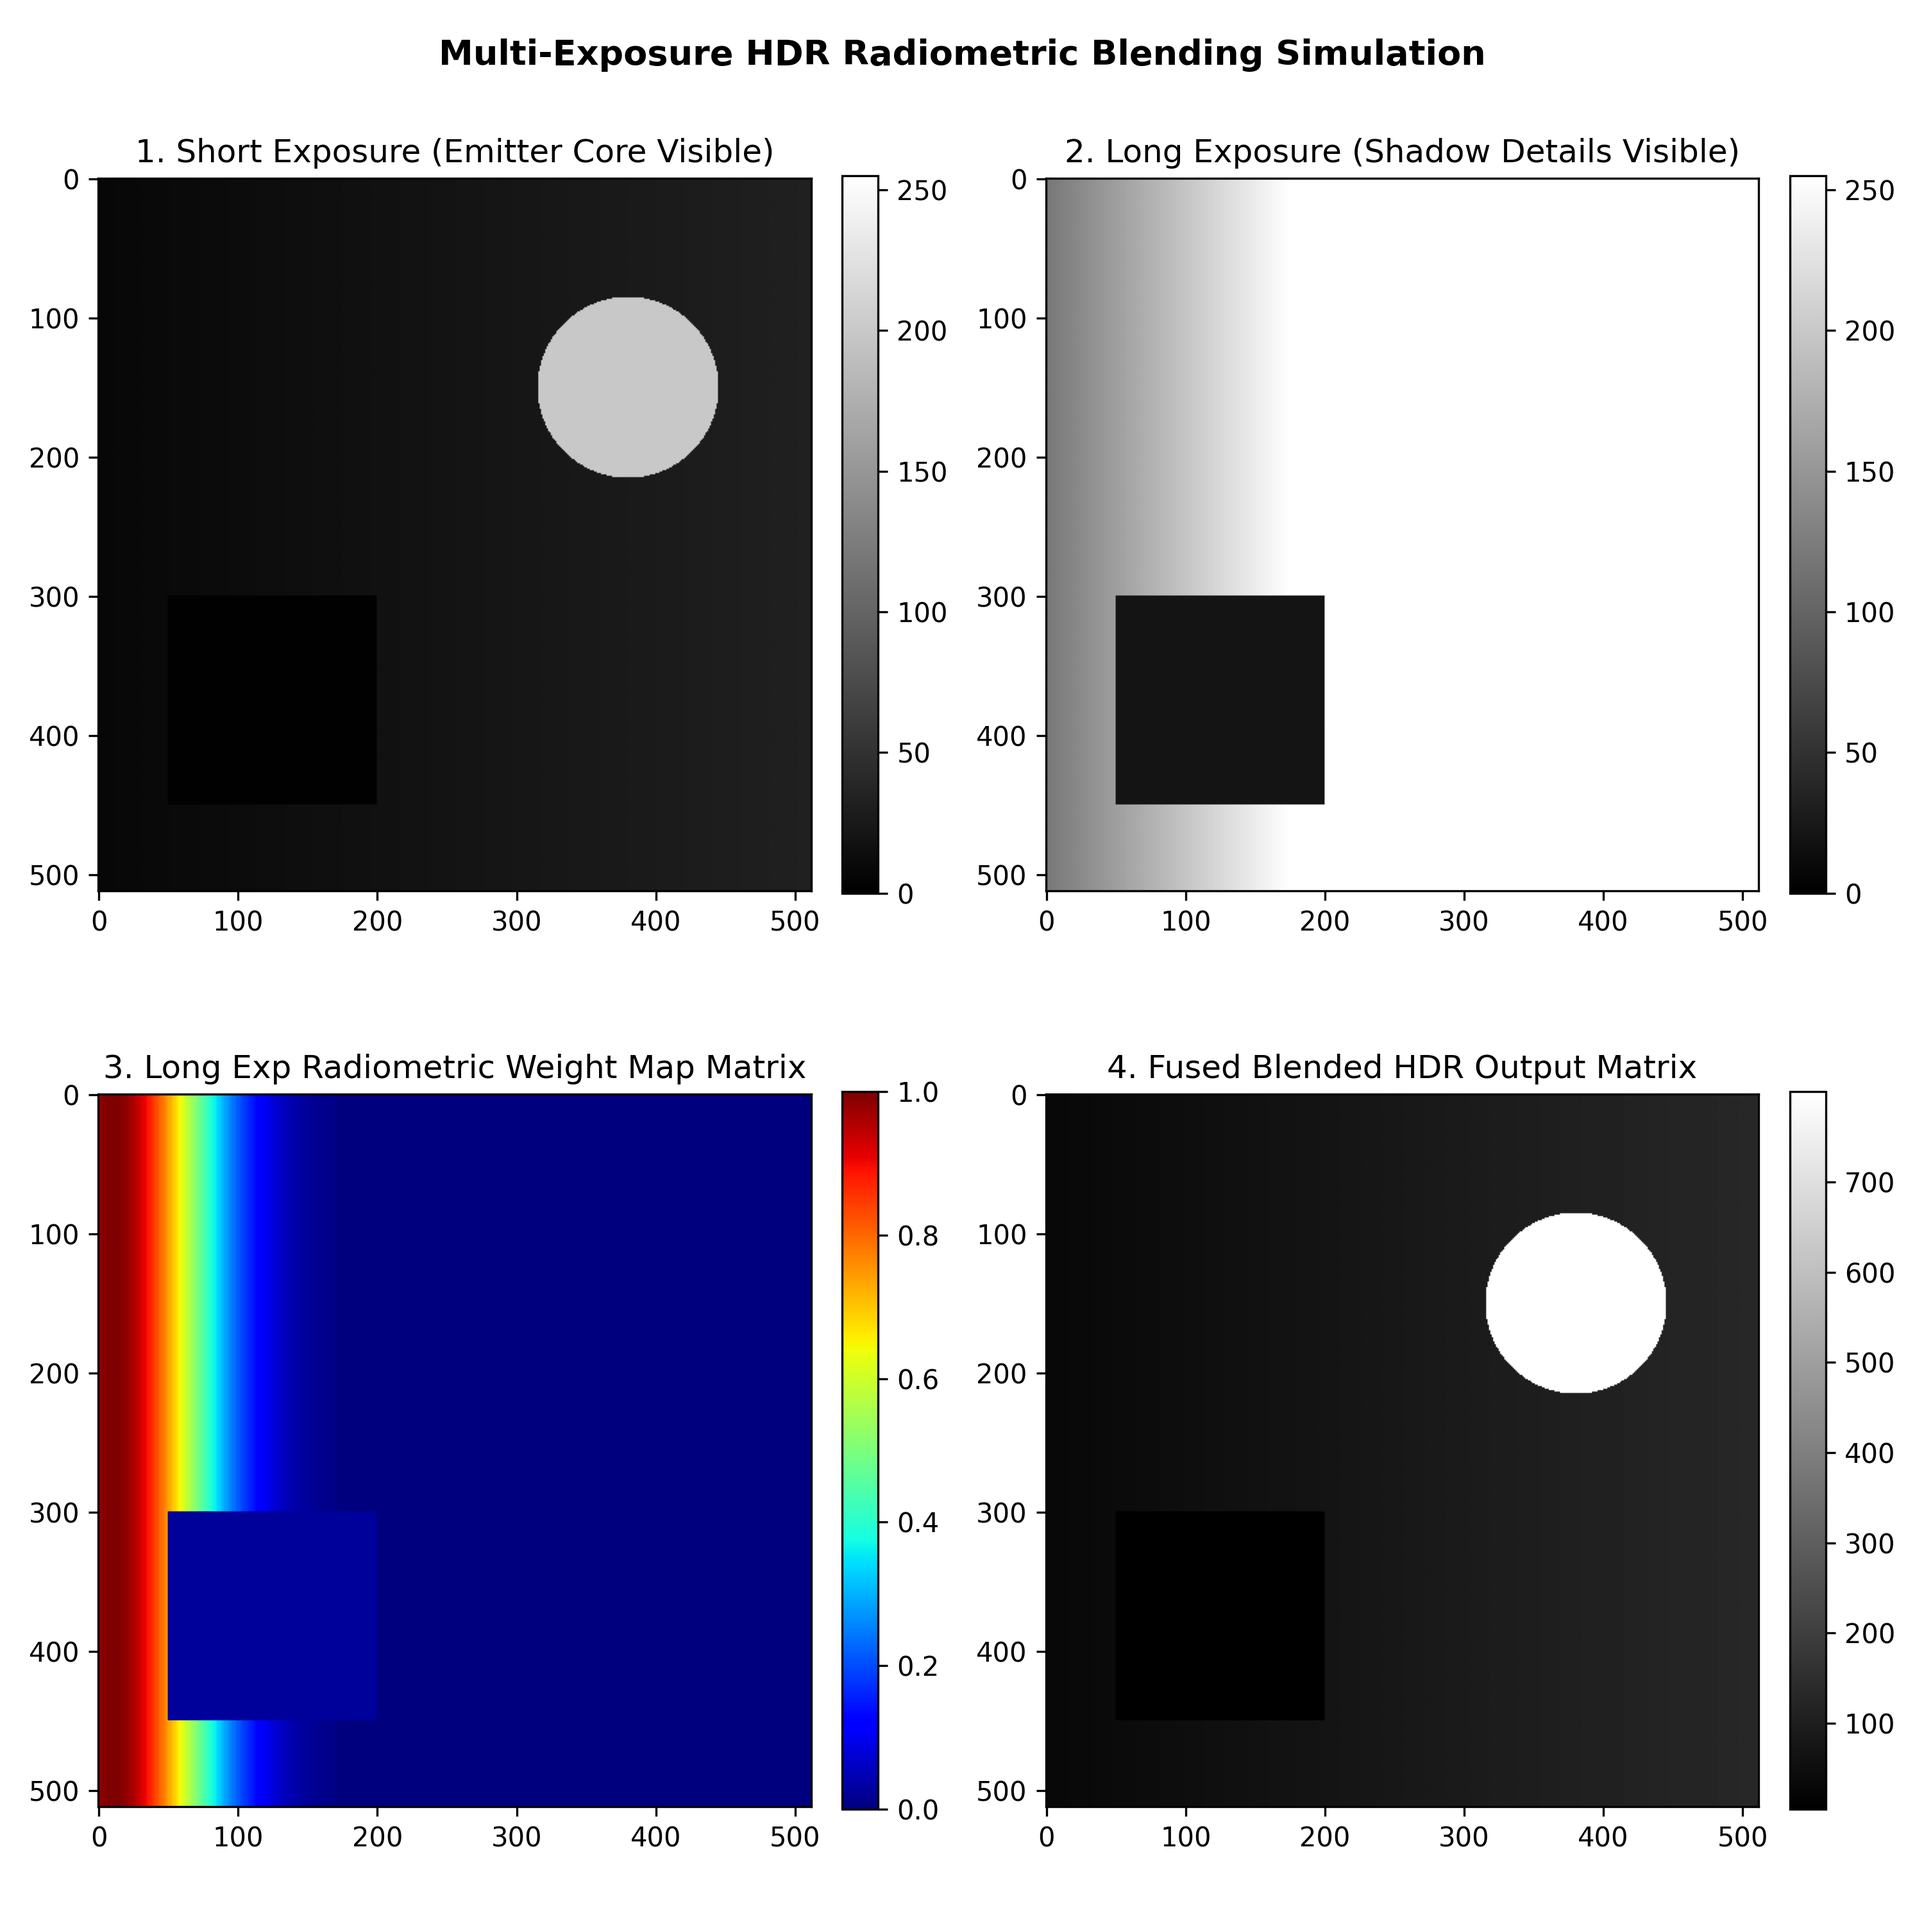
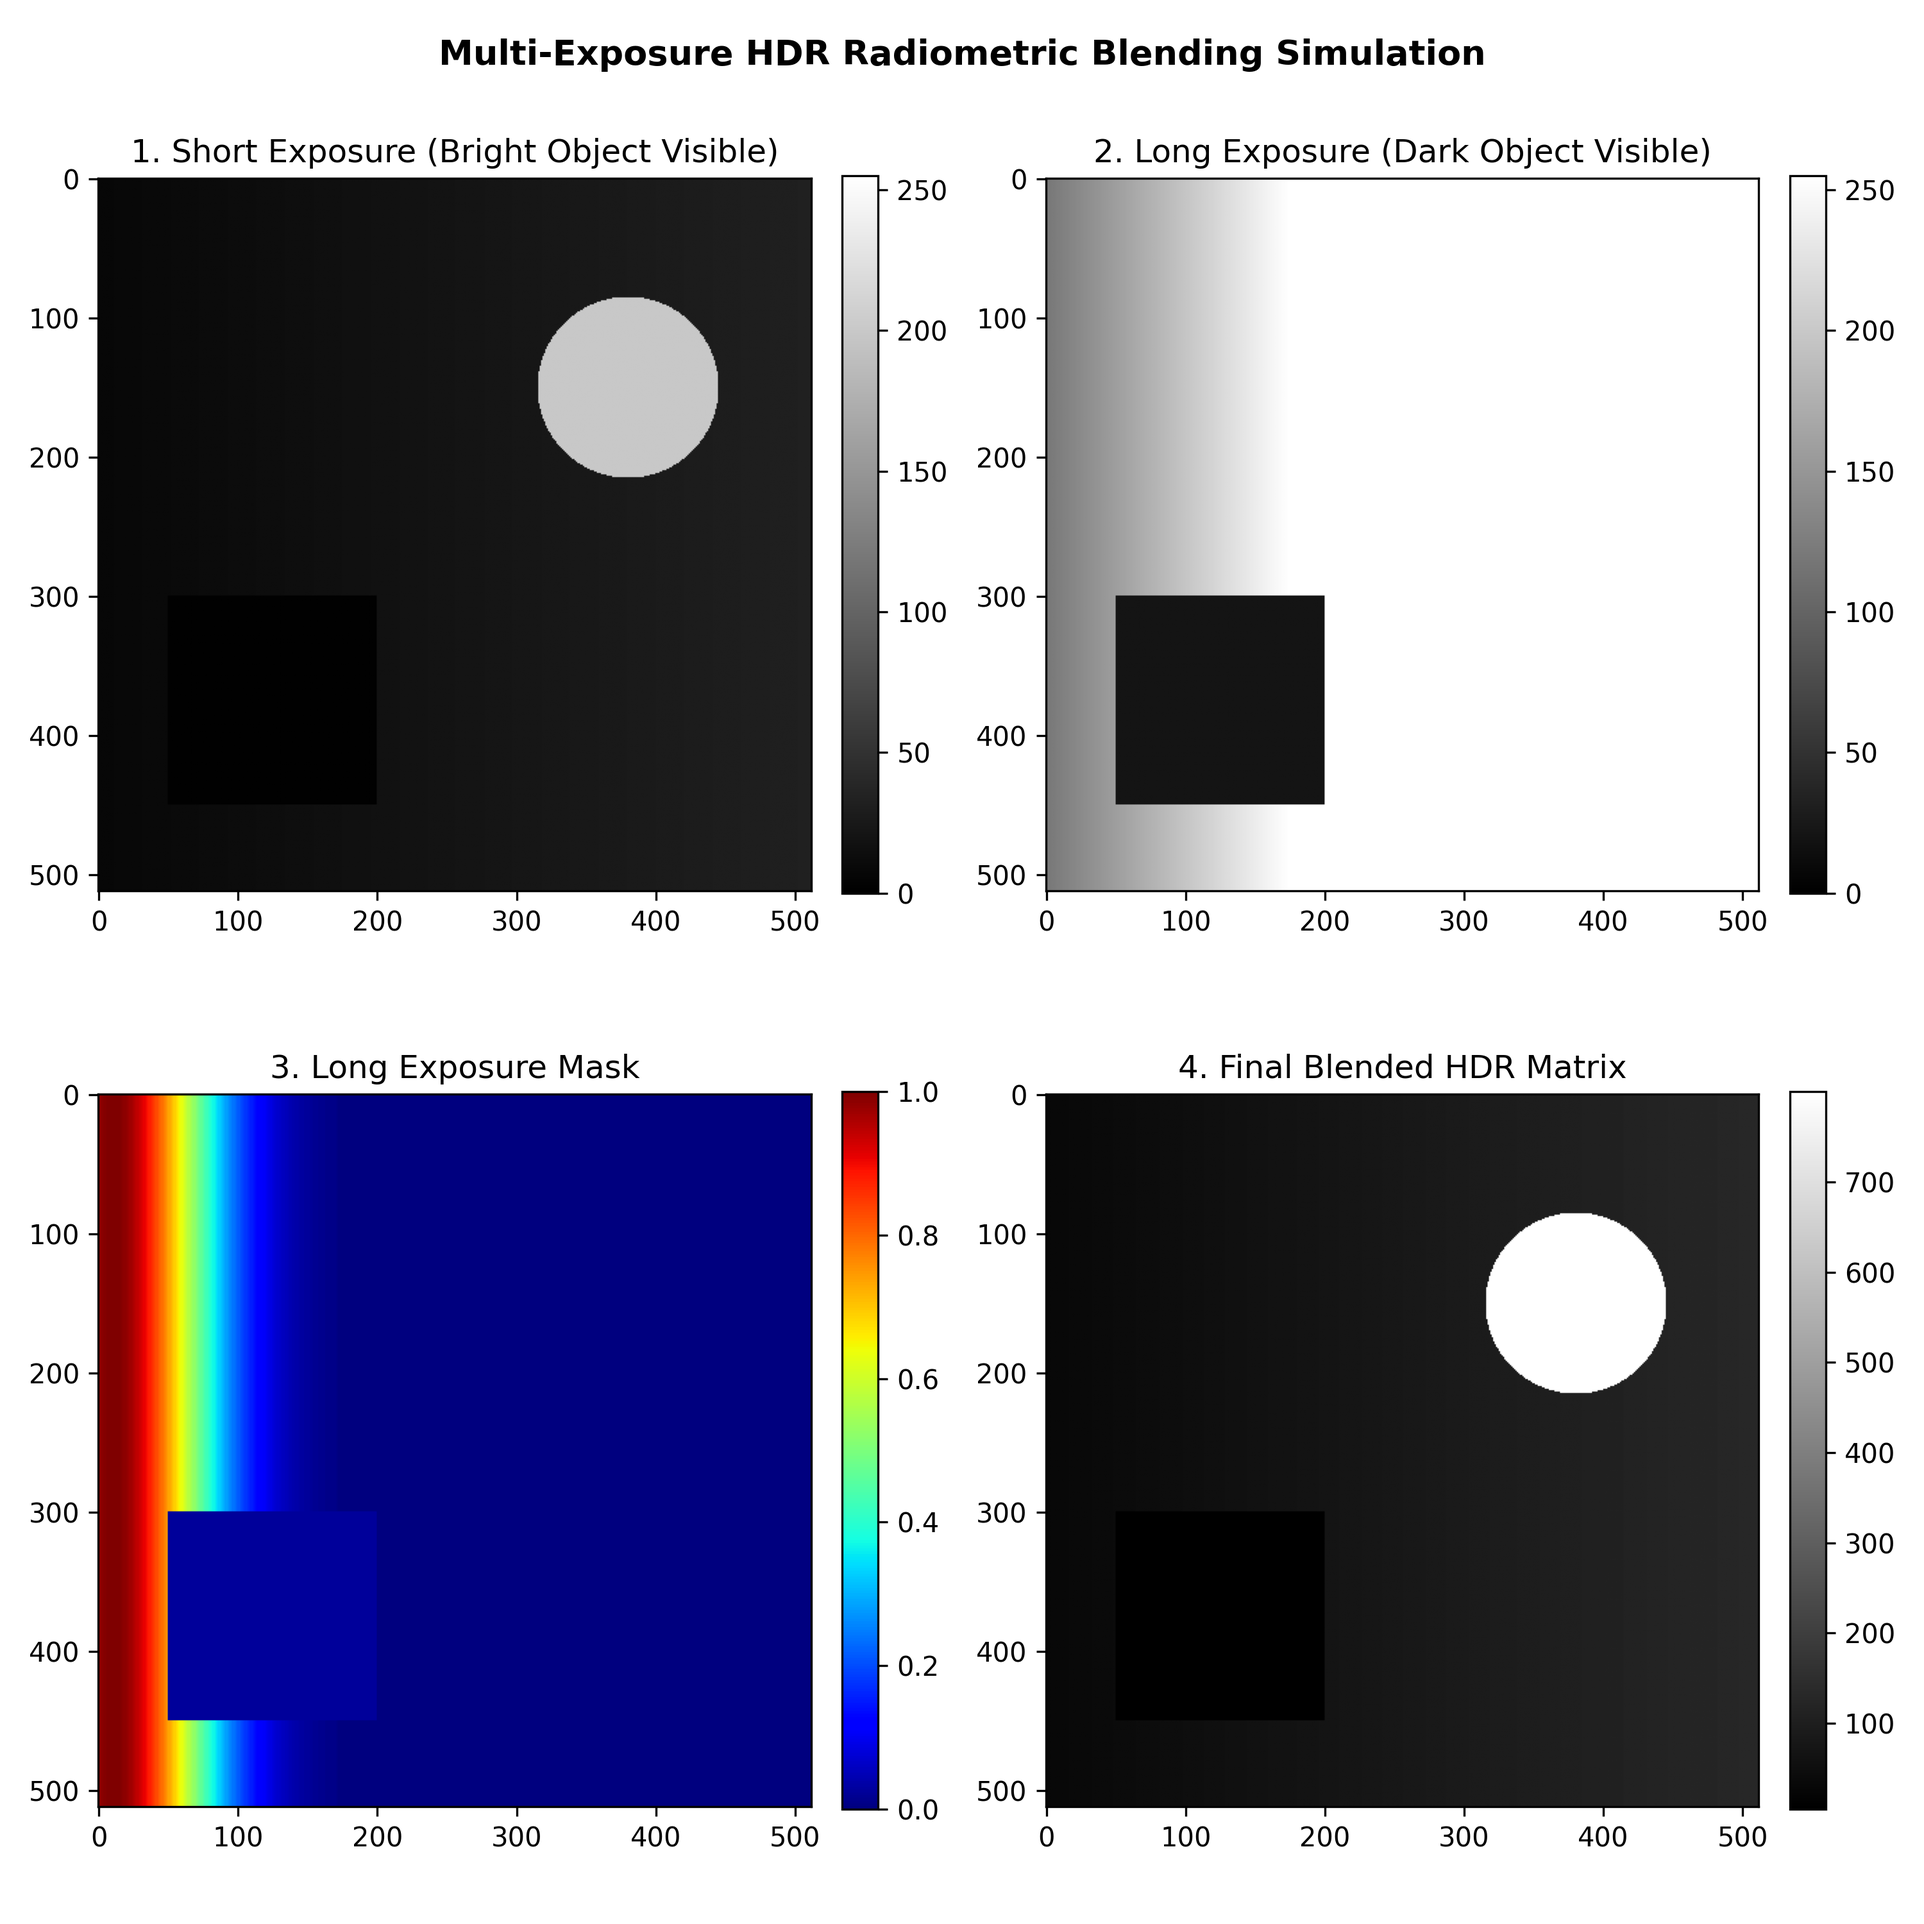
updates to all for better readability

diff --git a/hdr_radiometric_blender.py b/hdr_radiometric_blender.py
@@ -80,22 +80,22 @@ fig.suptitle("Multi-Exposure HDR Radiometric Blending Simulation", fontsize=13, 
 
 # Panel 1: Short Exposure (Highlight Optimized)
 im1 = axes[0, 0].imshow(img_short, cmap='gray', vmin=0, vmax=255)
-axes[0, 0].set_title("1. Short Exposure (Emitter Core Visible)")
+axes[0, 0].set_title("1. Short Exposure (Bright Object Visible)")
 fig.colorbar(im1, ax=axes[0, 0], fraction=0.046, pad=0.04)
 
 # Panel 2: Long Exposure (Shadow Optimized)
 im2 = axes[0, 1].imshow(img_long, cmap='gray', vmin=0, vmax=255)
-axes[0, 1].set_title("2. Long Exposure (Shadow Details Visible)")
+axes[0, 1].set_title("2. Long Exposure (Dark Object Visible)")
 fig.colorbar(im2, ax=axes[0, 1], fraction=0.046, pad=0.04)
 
 # Panel 3: Long Exposure Weight Map Distribution Matrix
 im3 = axes[1, 0].imshow(long_weight_map, cmap='jet', vmin=0, vmax=1)
-axes[1, 0].set_title("3. Long Exp Radiometric Weight Map Matrix")
+axes[1, 0].set_title("3. Long Exposure Mask")
 fig.colorbar(im3, ax=axes[1, 0], fraction=0.046, pad=0.04)
 
 # Panel 4: Final Corrected, Blended HDR Image
 im4 = axes[1, 1].imshow(fused_hdr, cmap='gray')
-axes[1, 1].set_title("4. Fused Blended HDR Output Matrix")
+axes[1, 1].set_title("4. Final Blended HDR Matrix")
 fig.colorbar(im4, ax=axes[1, 1], fraction=0.046, pad=0.04)
 
 plt.tight_layout()
